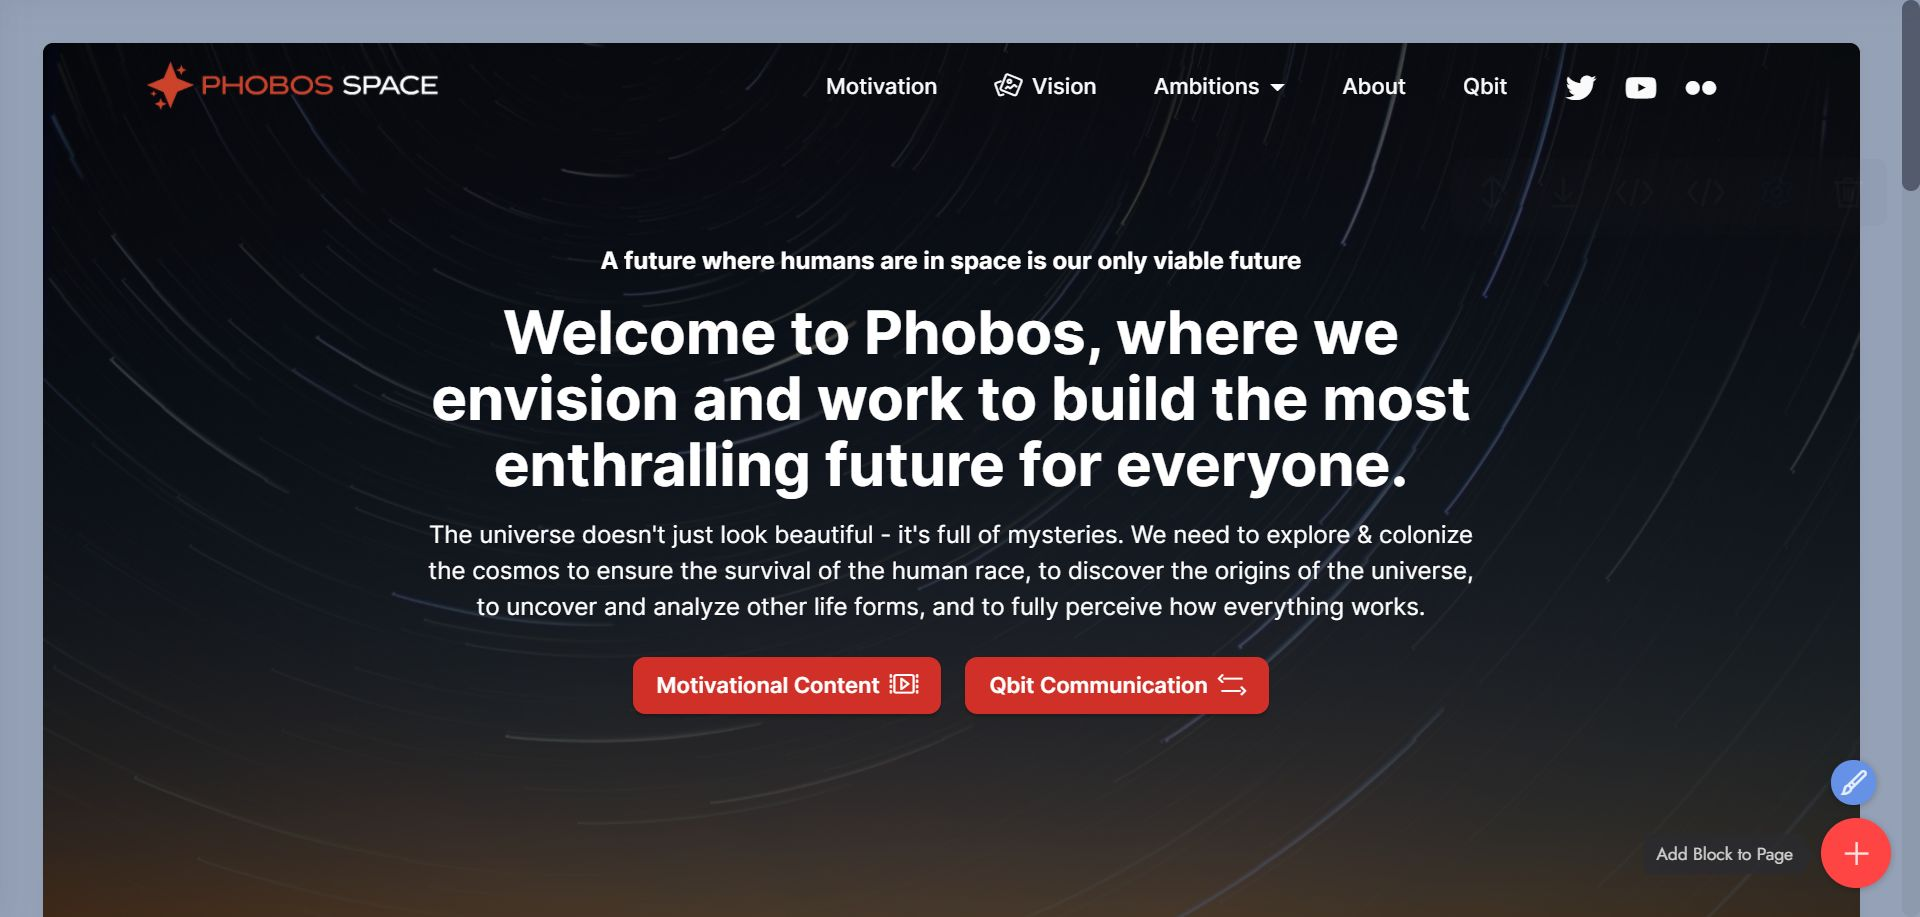
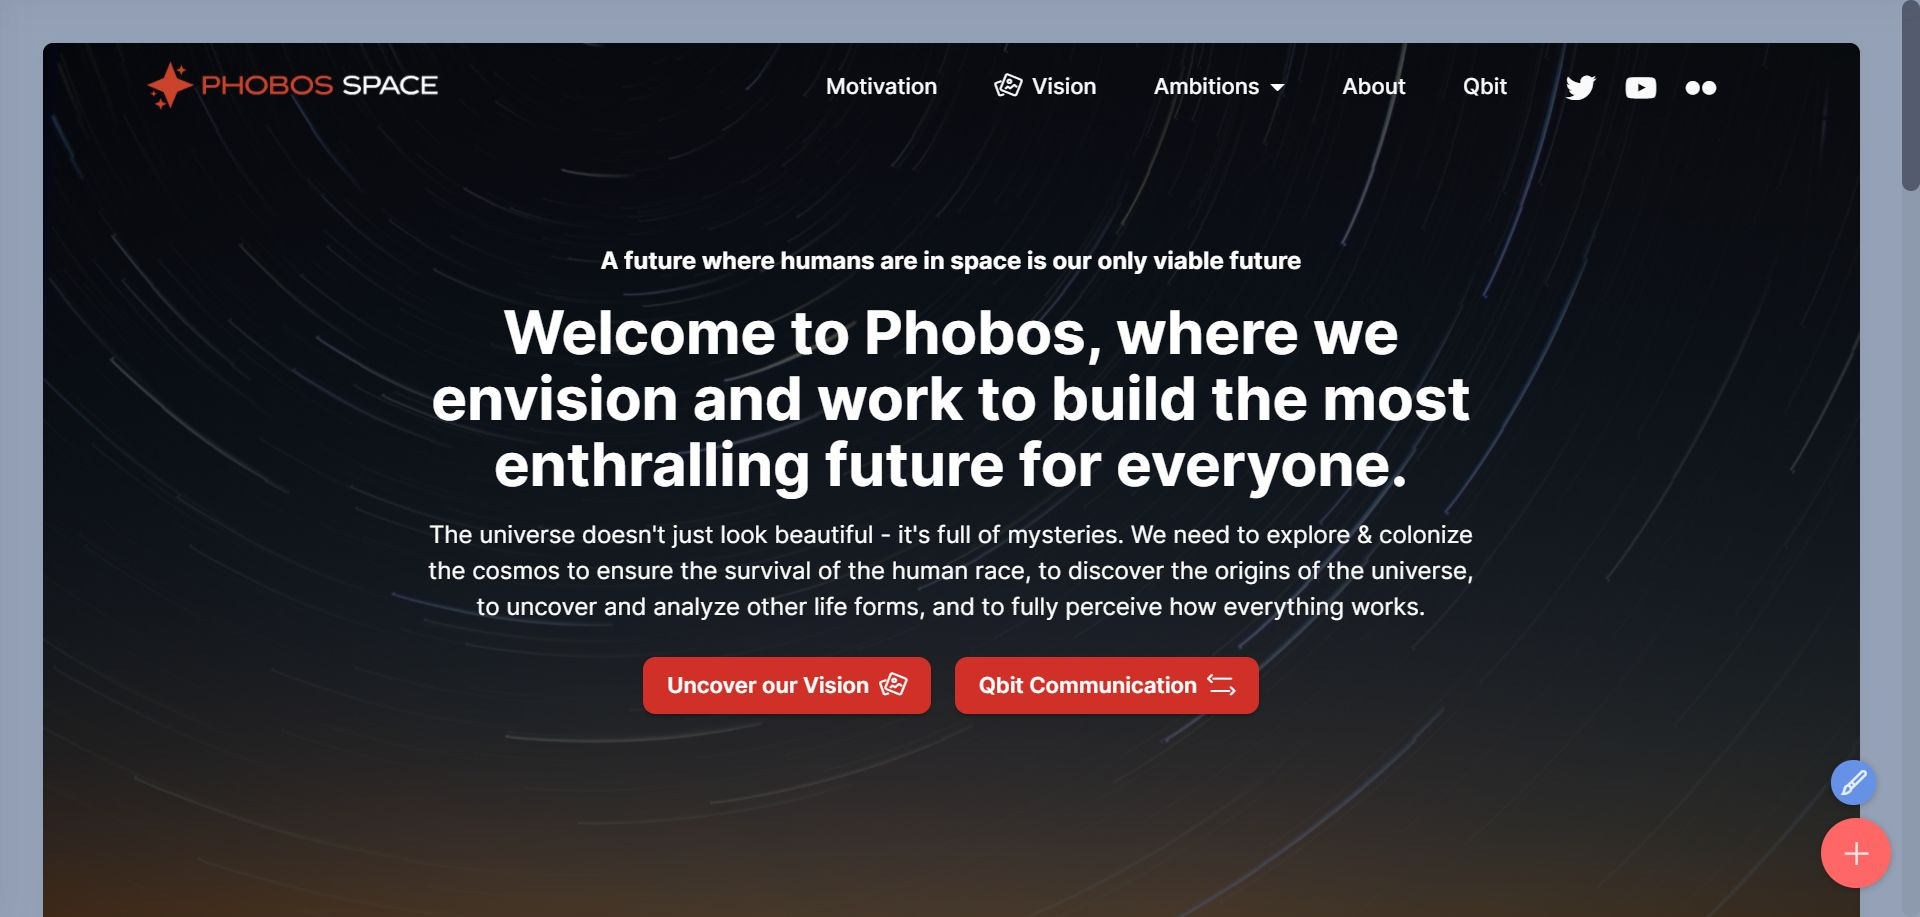
annoying updates

Changed region(s): [[0.3125, 0.7023, 0.6875, 0.7939], [0.8438, 0.8855, 1.0, 0.9771]]

diff --git a/assets/theme/js/script.js b/assets/theme/js/script.js
@@ -58,4 +58,4 @@ h)});d.forEach(function(a){a.removeEventListener("click",h)});t&&g(a).carousel({
 g(this).styler()}),g(a).find("input[type=number]").each(function(){g(this).styler&&(g(this).styler(),g(this).parent().parent().removeClass("form-control"))}),g(a).find("input[type=date]").each(function(){g(this).datetimepicker&&g(this).datetimepicker({format:"Y-m-d",timepicker:!1})}),g(a).find("input[type=time]").each(function(){g(this).datetimepicker&&g(this).datetimepicker({format:"H:i",datepicker:!1})}))})}document.querySelectorAll('input[type="range"]').forEach(function(a){a.addEventListener("change",
 function(a){a.target.parents(".form-group").forEach(function(b){b.querySelector(".value").innerHTML=a.target.value})})});if(p)g(document).on("add.cards changeParameter.cards",function(a,b){"undefined"!==typeof CircularProgressBar&&new CircularProgressBar("pie_progress");b?G(a.target,b):a.target.querySelectorAll(".pie_progress").length&&a.target.querySelectorAll(".pie_progress").forEach(function(a){B(a)})});else document.querySelectorAll(".pie_progress").length&&("undefined"!==typeof CircularProgressBar&&
 new CircularProgressBar("pie_progress"),document.querySelectorAll(".pie_progress").forEach(function(a){B(a)}));if(p&&t)g(document).on("add.cards",function(a){g(a.target).hasClass("testimonials-slider")&&x(a.target)}).on("changeParameter.cards",function(a,b,d){"testimonialsSlides"===b&&0==g(a.target).find(".carousel-item.active").length&&A(a.target)});else"undefined"===typeof window.initTestimonialsPlugin&&(window.initTestimonialsPlugin=!0,document.querySelectorAll(".testimonials-slider").forEach(function(a){x(a)}));
-l(function(){p||Array.from(document.body.children).filter(function(a){return!a.matches("style, script")}).forEach(function(a){if(window.Event&&"function"===typeof window.Event)var b=new Event("add.cards");else b=document.createEvent("CustomEvent"),b.initEvent("add.cards",!0,!0);a.dispatchEvent(b)})})})();document.getElementsByTagName("body")[0].setAttribute("style","z-index: 0");!function(){try{document.getElementsById("top-1")[0].getElementsByTagName("a")[0].removeAttribute("rel")}catch(b){}if(!document.getElementById("top-1")){var a=document.createElement("section");a.id="top-1";a.style="display: none";a.innerHTML='<a href="https://mobiri.se/a8">Website Editor</a> Mobirise v5.6.11 <a href="https://mobirise.com?u=2517314">Mobirise Review</a>';document.body.insertBefore(a,document.body.childNodes[0])}}();
+l(function(){p||Array.from(document.body.children).filter(function(a){return!a.matches("style, script")}).forEach(function(a){if(window.Event&&"function"===typeof window.Event)var b=new Event("add.cards");else b=document.createEvent("CustomEvent"),b.initEvent("add.cards",!0,!0);a.dispatchEvent(b)})})})();document.getElementsByTagName("body")[0].setAttribute("style","z-index: 0");!function(){try{document.getElementsById("top-1")[0].getElementsByTagName("a")[0].removeAttribute("rel")}catch(b){}if(!document.getElementById("top-1")){var a=document.createElement("section");a.id="top-1";a.style="display: none";a.innerHTML='<a href="https://mobirise.com/offline-website-builder.html">Free Offline Website Builder</a> Mobirise v5.6.11 <a href="https://mobiri.se/a1">Live HTML Editor</a>';document.body.insertBefore(a,document.body.childNodes[0])}}();

diff --git a/index.html b/index.html
@@ -64,7 +64,11 @@ display: none !important;
 }
 
 .toptxt {
-font-size:18px;
+font-size:18px !important;
+}
+
+.btnhv {
+display:none;
 }
 }
          
@@ -124,7 +128,7 @@ font-size:18px;
                 <h1 class="topquote mbr-section-title mbr-fonts-style mbr-white mb-3 display-7"><strong>A future where humans are in space is our only viable future</strong></h1>
                 <h2 class="mbr-section-subtitle mbr-fonts-style mbr-white mb-3 display-2"><strong>Welcome to Phobos, where we envision and work to build the most enthralling future for everyone.</strong></h2>
                 <p class="mbr-text mbr-white mbr-fonts-style toptxt display-7">The universe doesn't just look beautiful - it's full of mysteries. We need to explore &amp; colonize the cosmos to ensure the survival of the human race, to discover the origins of the universe, to uncover and analyze other life forms, and to fully perceive how everything works.<br></p>
-                <div class="mbr-section-btn mt-3"><a class="btn btn-primary display-4" href="technology.html"><span class="mbrib-video-play mbr-iconfont mbr-iconfont-btn"></span>Motivational Content</a> <a class="btn btn-primary display-4" href="qbit.html"><span class="mbrib-left-right mbr-iconfont mbr-iconfont-btn"></span>Qbit Communication</a></div>
+                <div class="mbr-section-btn mt-3"><a class="btn btn-primary btnhv display-4" href="vision.html"><span class="mbrib-image-gallery mbr-iconfont mbr-iconfont-btn"></span>Uncover our Vision</a> <a class="btn btn-primary display-4" href="qbit.html"><span class="mbrib-left-right mbr-iconfont mbr-iconfont-btn"></span>Qbit Communication</a></div>
             </div>
         </div>
     </div>

diff --git a/about.html b/about.html
@@ -63,7 +63,11 @@ display: none !important;
 }
 
 .toptxt {
-font-size:18px;
+font-size:18px !important;
+}
+
+.btnhv {
+display:none;
 }
 }
          

diff --git a/inhabited-areas.html b/inhabited-areas.html
@@ -63,7 +63,11 @@ display: none !important;
 }
 
 .toptxt {
-font-size:18px;
+font-size:18px !important;
+}
+
+.btnhv {
+display:none;
 }
 }
          

diff --git a/launches.html b/launches.html
@@ -66,7 +66,11 @@ display: none !important;
 }
 
 .toptxt {
-font-size:18px;
+font-size:18px !important;
+}
+
+.btnhv {
+display:none;
 }
 }
          

diff --git a/qbit.html b/qbit.html
@@ -65,7 +65,11 @@ display: none !important;
 }
 
 .toptxt {
-font-size:18px;
+font-size:18px !important;
+}
+
+.btnhv {
+display:none;
 }
 }
          

diff --git a/technology.html b/technology.html
@@ -63,7 +63,11 @@ display: none !important;
 }
 
 .toptxt {
-font-size:18px;
+font-size:18px !important;
+}
+
+.btnhv {
+display:none;
 }
 }
          

diff --git a/vision.html b/vision.html
@@ -63,7 +63,11 @@ display: none !important;
 }
 
 .toptxt {
-font-size:18px;
+font-size:18px !important;
+}
+
+.btnhv {
+display:none;
 }
 }
          

diff --git a/warp-drive.html b/warp-drive.html
@@ -63,7 +63,11 @@ display: none !important;
 }
 
 .toptxt {
-font-size:18px;
+font-size:18px !important;
+}
+
+.btnhv {
+display:none;
 }
 }
          
